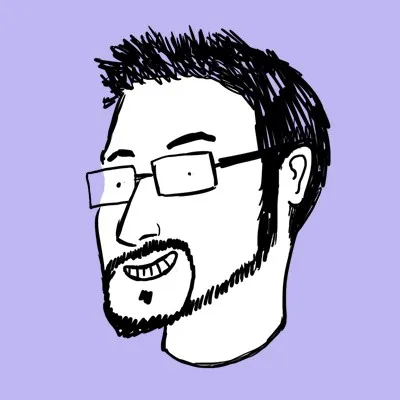
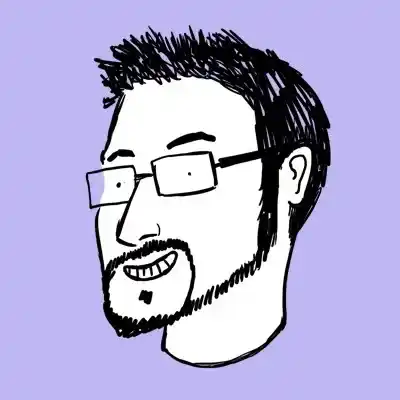
removed unused images, optimized webp versions

Changed region(s): [[0.75, 0.24, 0.81, 0.27], [0.33, 0.09, 0.36, 0.12], [0.3, 0.18, 0.33, 0.21]]

diff --git a/index.html b/index.html
@@ -85,7 +85,7 @@
       <div
         class="flex flex-col align-items-center justify-center bg-white dark:bg-gray-900 min-w-sm rounded-full p-2 aspect-square relative z-10 max-w-2xl shadow-2xl">
         <h1 class="fade-in-logo">
-          <img id="logo-img" class="mx-auto max-w-64" src="/images/ossocubo_logo.webp" alt="Ossocubo">
+          <img id="logo-img" class="mx-auto max-w-64" src="/images/ossocubo_logo.webp" alt="Ossocubo" fetchpriority=high >
         </h1>
         <p class="mt-6 text-sm md:text-md/6 text-center px-2 dark:text-white">
           A small game development team <BR> based in Switzerland and Italy.
